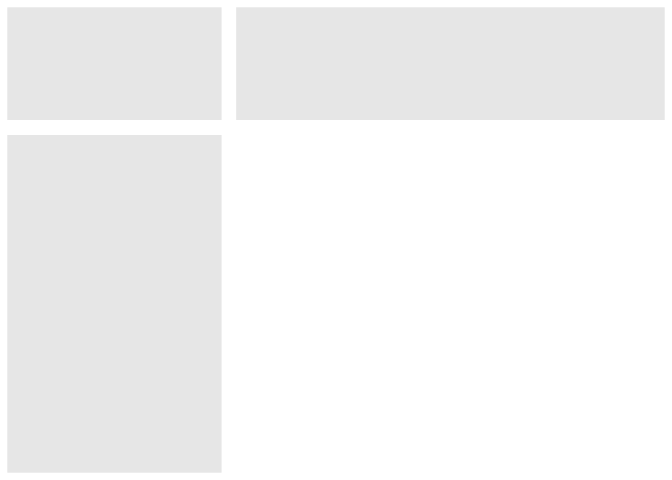
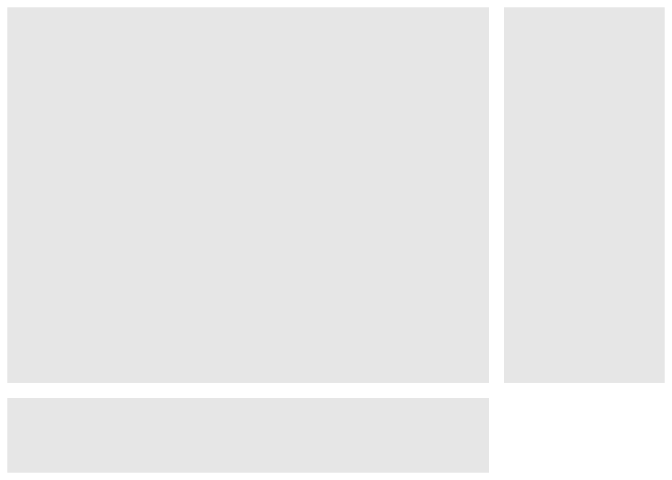
sizes

diff --git a/README.md b/README.md
@@ -84,7 +84,7 @@ Widths and heights should correspond to the layout.
 
 ``` r
 p <- ggplot()
-ggarrange(p, p, p, widths = 1:2, heights=c(1, 3))
+ggarrange(p, p, p, widths = c(3,1), heights=c(5, 1))
 ```
 
 ![](inst/demo/ggarrangelayout-1.png)
